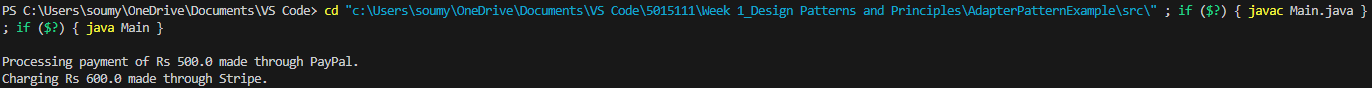
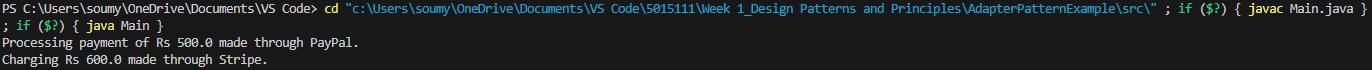
Decorator Pattern

diff --git a/Week 1_Design Patterns and Principles/DecoratorPatternExample/src/DecoratorPattern.java b/Week 1_Design Patterns and Principles/DecoratorPatternExample/src/DecoratorPattern.java
@@ -1,0 +1,15 @@
+import dependencies.EmailNotifier;
+import dependencies.Notifier;
+import dependencies.SMSNotifierDecorator;
+import dependencies.SlackNotifierDecorator;
+
+public class DecoratorPattern {
+    public static void main(String[] args) {
+
+        Notifier emailNotifier = new EmailNotifier();
+        Notifier smsNotifier = new SMSNotifierDecorator(emailNotifier);
+        Notifier slackNotifier = new SlackNotifierDecorator(smsNotifier);
+
+        slackNotifier.send("Hello! this is a test notification!");
+    }
+}

diff --git a/Week 1_Design Patterns and Principles/DecoratorPatternExample/src/dependencies/SlackNotifierDecorator.java b/Week 1_Design Patterns and Principles/DecoratorPatternExample/src/dependencies/SlackNotifierDecorator.java
@@ -1,0 +1,17 @@
+package dependencies;
+
+public class SlackNotifierDecorator extends NotifierDecorator {
+    public SlackNotifierDecorator(Notifier decoratedNotifier) {
+        super(decoratedNotifier);
+    }
+
+    @Override
+    public void send(String message) {
+        super.send(message);
+        sendSlackMessage(message);
+    }
+
+    private void sendSlackMessage(String message) {
+        System.out.println("Sending Slack message with message: " + message);
+    }
+}

diff --git a/Week 1_Design Patterns and Principles/DecoratorPatternExample/src/dependencies/SMSNotifierDecorator.java b/Week 1_Design Patterns and Principles/DecoratorPatternExample/src/dependencies/SMSNotifierDecorator.java
@@ -1,0 +1,17 @@
+package dependencies;
+
+public class SMSNotifierDecorator extends NotifierDecorator {
+    public SMSNotifierDecorator(Notifier decoratedNotifier) {
+        super(decoratedNotifier);
+    }
+
+    @Override
+    public void send(String message) {
+        super.send(message);
+        sendSMS(message);
+    }
+
+    private void sendSMS(String message) {
+        System.out.println("Sending SMS with message: " + message);
+    }
+}

diff --git a/Week 1_Design Patterns and Principles/DecoratorPatternExample/src/dependencies/NotifierDecorator.java b/Week 1_Design Patterns and Principles/DecoratorPatternExample/src/dependencies/NotifierDecorator.java
@@ -1,0 +1,14 @@
+package dependencies;
+
+public abstract class NotifierDecorator implements Notifier {
+    protected Notifier decoratedNotifier;
+
+    public NotifierDecorator(Notifier decoratedNotifier) {
+        this.decoratedNotifier = decoratedNotifier;
+    }
+
+    @Override
+    public void send(String message) {
+        decoratedNotifier.send(message);
+    }
+}

diff --git a/Week 1_Design Patterns and Principles/AdapterPatternExample/src/Main.java b/Week 1_Design Patterns and Principles/AdapterPatternExample/src/Main.java
@@ -6,8 +6,6 @@ import dependencies.StripeGateway;
 
 public class Main {
     public static void main(String[] args) {
-        System.out.println();
-
         PaymentProcessor payPalProcessor = new PayPalAdapter(new PayPalGateway());
         PaymentProcessor stripeProcessor = new StripeAdapter(new StripeGateway());
 

diff --git a/Week 1_Design Patterns and Principles/DecoratorPatternExample/src/dependencies/EmailNotifier.java b/Week 1_Design Patterns and Principles/DecoratorPatternExample/src/dependencies/EmailNotifier.java
@@ -1,0 +1,8 @@
+package dependencies;
+
+public class EmailNotifier implements Notifier {
+    @Override
+    public void send(String message) {
+        System.out.println("Sending email with message: " + message);
+    }
+}

diff --git a/Week 1_Design Patterns and Principles/DecoratorPatternExample/src/dependencies/Notifier.java b/Week 1_Design Patterns and Principles/DecoratorPatternExample/src/dependencies/Notifier.java
@@ -1,0 +1,5 @@
+package dependencies;
+
+public interface Notifier {
+    void send(String message);
+}
